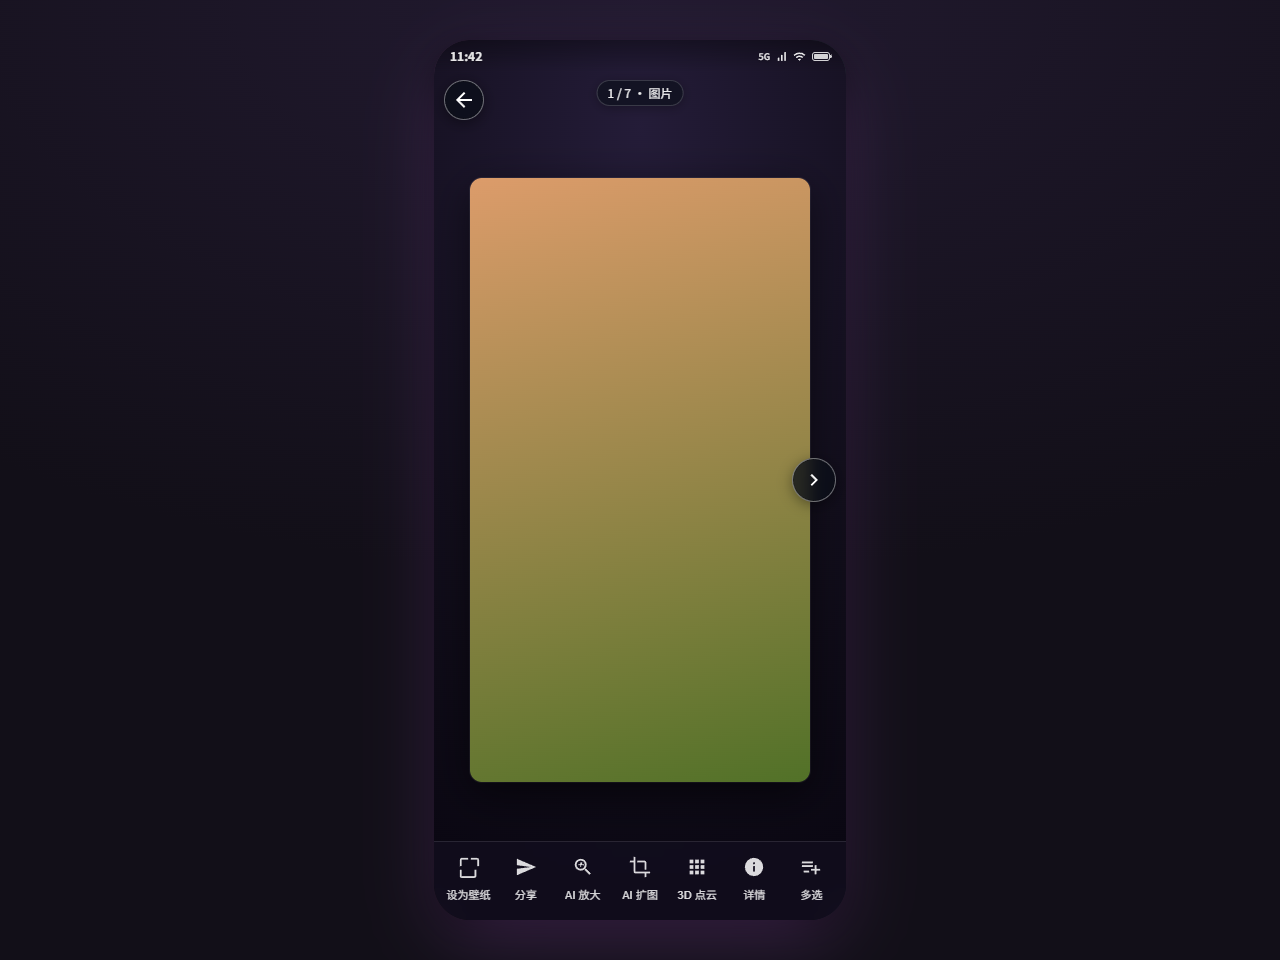
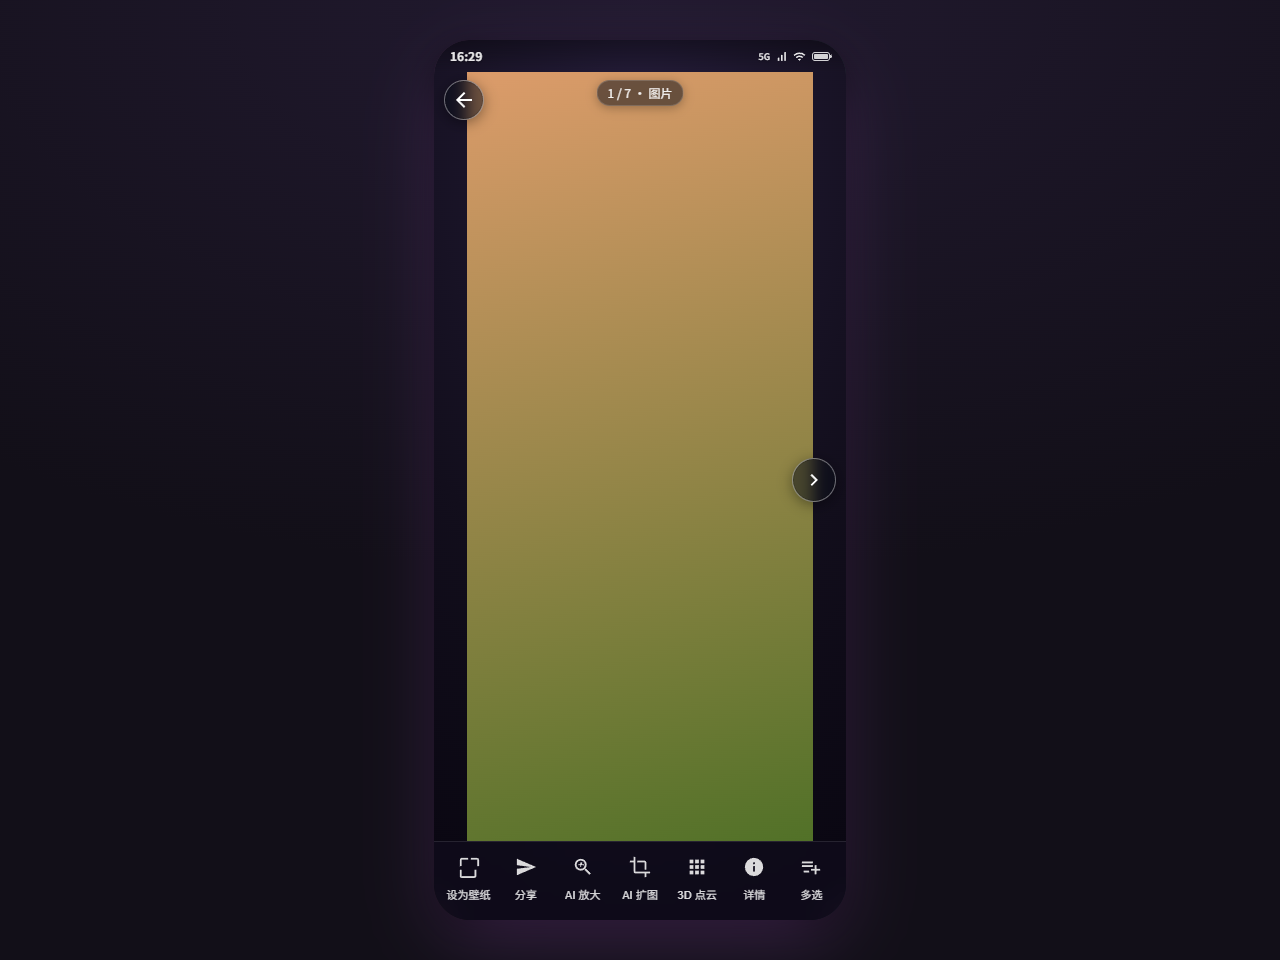
原型: 对齐整屏截图与真实底栏

Changed region(s): [[0.3438, 0.0625, 0.6562, 0.1875], [0.3438, 0.8125, 0.6562, 0.875], [0.625, 0.4688, 0.6562, 0.5312]]

diff --git a/js/screens/assets.js b/js/screens/assets.js
@@ -347,8 +347,9 @@
   function mediaStage(a) {
     if (a.kind === 'pointcloud') return cloudStage(a);
     if (a.kind === 'audio') return audioStage(a);
+    const iw = a.pixelWidth > 0 ? a.pixelWidth : 9, ih = a.pixelHeight > 0 ? a.pixelHeight : 16;
     return '<div class="av-media' + (a.kind === 'image' ? ' av-zoomable' : '') + '">' +
-      '<div class="av-picture" style="background:linear-gradient(165deg,hsl(' + a.hue + ',62%,64%),hsl(' + ((a.hue + 60) % 360) + ',48%,30%))"></div>' +
+      '<div class="av-picture" data-pixel-width="' + iw + '" data-pixel-height="' + ih + '" style="background:linear-gradient(165deg,hsl(' + a.hue + ',62%,64%),hsl(' + ((a.hue + 60) % 360) + ',48%,30%))"></div>' +
       (a.kind === 'video' ? '<span style="width:56px;height:56px;border-radius:50%;background:rgba(0,0,0,.45);display:flex;align-items:center;justify-content:center;color:#fff;z-index:1">' + icon('play_arrow') + '</span>' : '') + '</div>';
   }
   // 三页常驻轨道：媒体容器始终全屏，安全区只决定 1× 初始取景，不参与阈值布局切换。
@@ -550,17 +551,20 @@
     const media = frame && frame.querySelector('.av-picture');
     return media ? Object.assign({ media, frame }, p) : null;
   }
-  // 1×：宽不超过安全区，高位于顶部安全区与底栏之间；放大：中心连续过渡到全屏中心。
+  // 1×：宽不超过安全区，高位于顶部安全区与真实底栏之间；放大：中心连续过渡到全屏中心。
   function mediaLayout(parts, scale) {
     const vw = parts.pager.clientWidth, vh = parts.pager.clientHeight;
     const appStyle = getComputedStyle(document.getElementById('app'));
     const top = parseFloat(appStyle.getPropertyValue('--statusbar-h')) || 0;
     const toolbar = document.querySelector('.av-toolbar');
+    // offsetHeight 已含底部手势安全区；即使 chrome 隐藏也保持原布局，不可再重复扣 safeBottom。
     const bottom = toolbar ? toolbar.offsetHeight : 0;
     const side = vw > vh ? 24 : 0; // 原型模拟横屏圆角/挖孔；Compose 读取真实 WindowInsets。
     const safeW = Math.max(1, vw - side * 2), safeH = Math.max(1, vh - top - bottom);
-    const fit = Math.min(safeW / 9, safeH / 16); // 原型图片比例 9:16
-    const baseW = 9 * fit, baseH = 16 * fit;
+    const media = parts.media || parts.pager.querySelector('.av-page[data-pos="0"] .av-picture');
+    const iw = +(media && media.dataset.pixelWidth) || 9, ih = +(media && media.dataset.pixelHeight) || 16;
+    const fit = Math.min(safeW / iw, safeH / ih);
+    const baseW = iw * fit, baseH = ih * fit;
     const safeX = side + safeW / 2, safeY = top + safeH / 2;
     const fillZoom = Math.max(1.0001, vw / baseW, vh / baseH);
     const progress = Math.max(0, Math.min(1, (scale - 1) / (fillZoom - 1)));
@@ -598,6 +602,14 @@
       }
     }
   }
+  // 视口旋转/尺寸变化只重算同一连续几何，不切换容器或重置当前倍率。
+  window.addEventListener('resize', () => {
+    const current = nav.current();
+    if (!current || current.page !== 'asset' || cur().kind !== 'image') return;
+    const z = zoomOf(cur().id);
+    requestAnimationFrame(() => paintZoom(z.scale, z.x, z.y, false));
+  });
+
   function doubleZoom(clientX, clientY) {
     const p = zoomParts();
     if (!p) return;

diff --git a/index.html b/index.html
@@ -6,7 +6,7 @@
 <title>MoeApk App 原型</title>
 <meta name="theme-color" content="#E94E8A">
 <link rel="icon" type="image/png" href="assets/ic_launcher_fg.png">
-<link rel="stylesheet" href="css/app.css?v=70">
+<link rel="stylesheet" href="css/app.css?v=71">
 </head>
 <body>
 <div class="proto-bar">
@@ -19,32 +19,32 @@
 </div>
 
 <!-- 数据快照（内嵌为全局变量，file:// 直接可开） -->
-<script src="js/data/catalog.js?v=70"></script>
-<script src="js/data/open.js?v=70"></script>
-<script src="js/data/ai.js?v=70"></script>
-<script src="js/data/goods.js?v=70"></script>
-<script src="js/data/prompts.js?v=70"></script>
+<script src="js/data/catalog.js?v=71"></script>
+<script src="js/data/open.js?v=71"></script>
+<script src="js/data/ai.js?v=71"></script>
+<script src="js/data/goods.js?v=71"></script>
+<script src="js/data/prompts.js?v=71"></script>
 <!-- 核心层 -->
-<script src="js/icons.js?v=70"></script>
-<script src="js/theme.js?v=70"></script>
-<script src="js/store.js?v=70"></script>
-<script src="js/mock.js?v=70"></script>
-<script src="js/ui.js?v=70"></script>
+<script src="js/icons.js?v=71"></script>
+<script src="js/theme.js?v=71"></script>
+<script src="js/store.js?v=71"></script>
+<script src="js/mock.js?v=71"></script>
+<script src="js/ui.js?v=71"></script>
 <!-- 页面（与 Compose 源文件一一对照，见 README 对照表） -->
-<script src="js/screens/apk.js?v=70"></script>
-<script src="js/screens/goods.js?v=70"></script>
-<script src="js/screens/assets.js?v=70"></script>
-<script src="js/screens/ai.js?v=70"></script>
-<script src="js/screens/ai-llm.js?v=70"></script>
-<script src="js/screens/ai-diffusion.js?v=70"></script>
-<script src="js/screens/ai-tts.js?v=70"></script>
-<script src="js/screens/ai-models.js?v=70"></script>
-<script src="js/screens/ai-prompt.js?v=70"></script>
-<script src="js/screens/download.js?v=70"></script>
-<script src="js/screens/mine.js?v=70"></script>
-<script src="js/screens/pages-account.js?v=70"></script>
-<script src="js/screens/about.js?v=70"></script>
-<script src="js/screens/wallpaper-dialog.js?v=70"></script>
+<script src="js/screens/apk.js?v=71"></script>
+<script src="js/screens/goods.js?v=71"></script>
+<script src="js/screens/assets.js?v=71"></script>
+<script src="js/screens/ai.js?v=71"></script>
+<script src="js/screens/ai-llm.js?v=71"></script>
+<script src="js/screens/ai-diffusion.js?v=71"></script>
+<script src="js/screens/ai-tts.js?v=71"></script>
+<script src="js/screens/ai-models.js?v=71"></script>
+<script src="js/screens/ai-prompt.js?v=71"></script>
+<script src="js/screens/download.js?v=71"></script>
+<script src="js/screens/mine.js?v=71"></script>
+<script src="js/screens/pages-account.js?v=71"></script>
+<script src="js/screens/about.js?v=71"></script>
+<script src="js/screens/wallpaper-dialog.js?v=71"></script>
 <script>
   nav.applyHash();
 </script>

diff --git a/tests/browser-asset-viewer.js b/tests/browser-asset-viewer.js
@@ -226,6 +226,32 @@ async function resetFirst() {
       `landscape zoom changed base layout or chrome: ${JSON.stringify(report.landscapeFill)}`);
     await shot('walk-asset-viewer-landscape-fill.png');
 
+    // 整屏截图比例：安全区恰好容纳 1260×2800 时，底边必须贴着真实底栏，不得多出固定预留。
+    await evaluate(`document.querySelector('[data-a="frame-toggle"]').click()`);
+    await metrics(360, 780);
+    await resetFirst();
+    const fitEnv = await evaluate(`(() => { const p=document.querySelector('.av-pager'), a=getComputedStyle(document.getElementById('app'));
+      return { width:p.clientWidth, top:parseFloat(a.getPropertyValue('--statusbar-h'))||0,
+        bottom:document.querySelector('.av-toolbar').offsetHeight }; })()`);
+    await metrics(fitEnv.width, Math.ceil(fitEnv.width * 2800 / 1260 + fitEnv.top + fitEnv.bottom));
+    await sleep(220);
+    report.screenshotFit = await evaluate(`(() => { const p=document.querySelector('.av-pager').getBoundingClientRect(),
+      m=document.querySelector('.av-page[data-pos="0"] .av-picture').getBoundingClientRect(),
+      t=document.querySelector('.av-toolbar').getBoundingClientRect();
+      return { gap:t.top-m.bottom, left:m.left-p.left, right:p.right-m.right, top:m.top-p.top,
+        containerFull:p.width===document.querySelector('.av-pager').clientWidth&&p.height===document.querySelector('.av-pager').clientHeight,
+        rect:[m.left,m.top,m.width,m.height].join(';') }; })()`);
+    assert(Math.abs(report.screenshotFit.gap) <= 1.01 && Math.abs(report.screenshotFit.left) <= 1.01 &&
+      Math.abs(report.screenshotFit.right) <= 1.01 && report.screenshotFit.containerFull,
+    `screenshot bottom does not meet real toolbar: ${JSON.stringify(report.screenshotFit)}`);
+    await clickAt(await point('.av-page[data-pos="0"] .av-media')); await sleep(390);
+    report.screenshotHiddenStable = await evaluate(`(() => { const m=document.querySelector('.av-page[data-pos="0"] .av-picture').getBoundingClientRect();
+      return { hidden:document.querySelector('.av-stage').classList.contains('chrome-hidden'),
+        stable:[m.left,m.top,m.width,m.height].join(';')===${JSON.stringify(report.screenshotFit.rect)} }; })()`);
+    assert(report.screenshotHiddenStable.hidden && report.screenshotHiddenStable.stable,
+      `hiding toolbar changed screenshot geometry: ${JSON.stringify(report.screenshotHiddenStable)}`);
+    await shot('walk-asset-viewer-screenshot-fit.png');
+
     assert(!externalRequests.length, `external requests: ${externalRequests.join(',')}`);
     assert(!exceptions.length, `browser exceptions: ${JSON.stringify(exceptions)}`);
     report.externalRequests = 0; report.exceptions = 0;

diff --git a/js/mock.js b/js/mock.js
@@ -8,7 +8,7 @@
     { name: 'momori_054', note: '桃璃台词 · 2026-09-10' }
   ];
   S.x.assets = [           // 素材库（图片/视频；壁纸中心拆除后统一为素材）
-    { id: 'as1', kind: 'image', hue: 26, label: '示例·晚霞', date: '2026-09-15' },
+    { id: 'as1', kind: 'image', hue: 26, label: '示例·晚霞', date: '2026-09-15', pixelWidth: 1260, pixelHeight: 2800 },
     { id: 'as2', kind: 'image', hue: 200, label: '示例·海面', date: '2026-09-12' },
     { id: 'as3', kind: 'video', hue: 300, label: '示例·夜樱', date: '2026-09-08', meta: '0:12' },
     { id: 'as4', kind: 'image', hue: 150, label: '示例·林间', date: '2026-09-06' },

diff --git a/js/screens/about.js b/js/screens/about.js
@@ -3,7 +3,7 @@
 // 原型版本约定：PROTO_COMMIT / PROTO_DATE 记录本原型自身的 git 提交，
 // 由维护者在每次提交前更新为当前 HEAD（提交者无需处理）。
 // App 关于页显示同形态的一行，值为其 UX 同步所依据的原型提交。
-const PROTO_COMMIT = 'dd57ebb';
+const PROTO_COMMIT = '7abfcd0';
 const PROTO_DATE = '2026-11-11';
 const PROTO_COMMIT_URL = 'https://github.com/Attect/moeapk-app-ux/commit/';
 

diff --git a/tests/ai-llm-contract.test.js b/tests/ai-llm-contract.test.js
@@ -59,5 +59,5 @@ test('所有静态资源统一使用本轮版本号', () => {
   const html = read('index.html');
   const versions = [...html.matchAll(/\?v=(\d+)/g)].map(m => m[1]);
   assert.ok(versions.length >= 20);
-  assert.ok(versions.every(v => v === '70'));
+  assert.ok(versions.every(v => v === '71'));
 });

diff --git a/docs/design-notes.md b/docs/design-notes.md
@@ -49,6 +49,14 @@
 
 ## 设计沿革
 
+### 第三十三轮（2026-11-11，整屏截图底边与真实底栏对齐）
+
+**起因**：整屏截图在真机 1× 查看时，图片底边与底栏之间多出一条黑带。原型一直读取底栏实际高度，但 Compose 固定预留 88dp；真机底栏实际约 69dp，因此多出的约 19dp 成为可见空隙。固定 9:16 的原型素材也不足以回归整屏截图比例。
+
+**定案**：1× 可用高度必须截止到真实底栏顶边；底栏自身已包含底部系统安全区时不得重复扣除。素材以其真实像素宽高参与 fit 计算，视口变化后重算同一连续几何。底栏显隐仍只改变透明度与交互，不改变已测得的底栏高度或图片初始尺寸。
+
+**原型同步**：`.av-picture` 携带素材像素宽高，`mediaLayout` 不再写死 9:16；增加 resize 重绘。专项走查以 1260×2800 截图比例构造完全匹配的安全区，断言图片底边与底栏顶边相差不超过 1px，并验证隐藏底栏前后图片矩形完全不变。全部资源版本号 v=71。
+
 ### 第三十二轮（2026-11-11，全屏容器与安全区连续缩放）
 
 **起因**：第三十一轮在 1× 阈值切换 Fit/Crop、padding 和圆角，虽然消除了放大后的黑边，却导致放大/缩回时画面跳变。用户进一步明确：额外留白永远不该存在，承载图像的容器必须始终全屏；1× 只是由安全区域定义的初始取景，而不是另一套布局。
